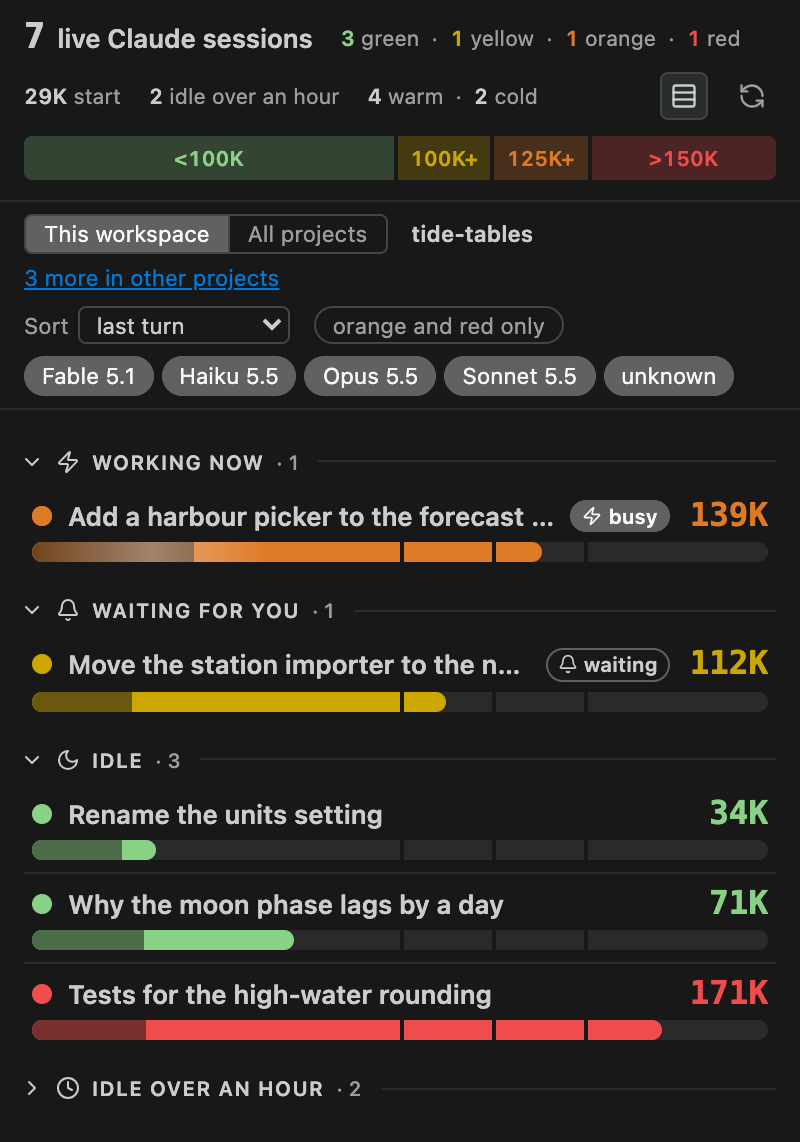
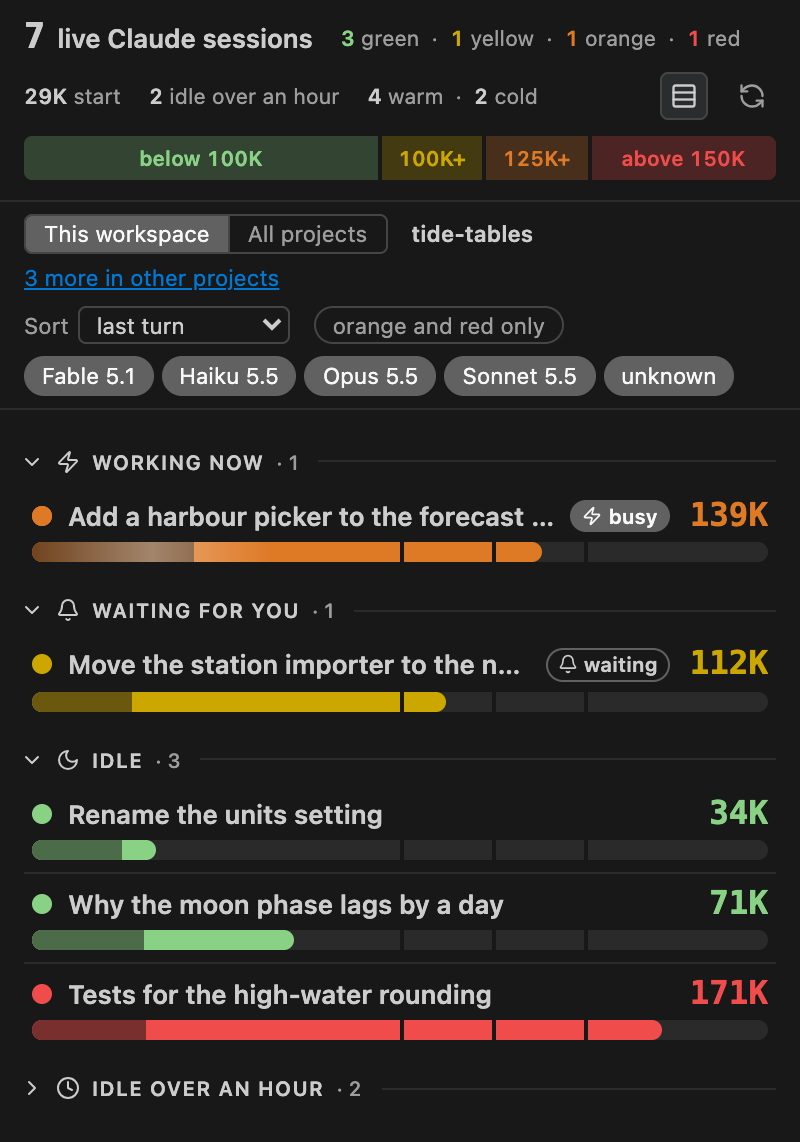
#56 The zone strip never shows a clipped label, keeps its tooltips, and takes its limits from the core
A review of #55 found three faults in the zone strip. A band's label was centred and clipped by the band, so in a
narrow sidebar "125K+" could read "25K"; the px breakpoints also ignored the editor's font size. Each band now shows
the longest range text that fits, measured on the drawn band (long, short, or none), on every list and on resize.
The bands were rebuilt on every list, every few seconds while a session works, so the tooltip with the zone's
advice vanished under the pointer; they are now built when the zones arrive and rebuilt only when they change.
And the limits lived twice, in zone() and in a hard-coded LIMITS in panel.html, so a change in the core alone
would have given a strip that contradicts the rows. The core now sends the zones with every list (ZONE_LIST: name,
bounds, long and short range text, advice, frozen), replacing zoneAdvice, and the panel takes LIMITS from them
for the strip, the rows' marks, the curves and the detail view; a list without zones keeps the last ones.

Also: ZONE_ADVICE is frozen, renderMeter and .kx-meter-leg are renamed after what they draw, and README no longer
reads as if the strip had a 0–200K axis.

Version 0.23.0.

Changed region(s): [[0.4688, 0.1226, 0.7188, 0.1839], [0.1562, 0.1226, 0.3438, 0.1532], [0.7812, 0.1226, 0.9375, 0.1532]]

diff --git a/panel.html b/panel.html
@@ -70,23 +70,22 @@
   /* The zone scale: a thick strip across the header, the row bar's 0–200K with each zone as a band at its true width
      and its range written inside, so the limits are in view before any row. Tinted, with the text in the zone colour,
      so it reads in light and dark themes. */
-  .kx-zscale { flex: 1 1 100%; container-type: inline-size; display: flex; gap: 2px; height: 22px; }
+  .kx-zscale { flex: 1 1 100%; display: flex; gap: 2px; height: 22px; }
   .kx-zband {
-    flex: var(--w) 1 0; min-width: 0; overflow: hidden; display: flex; align-items: center; justify-content: center;
+    flex: var(--w) 1 0; min-width: 0; overflow: hidden; display: flex; align-items: center; justify-content: center; padding: 0 4px;
     background: color-mix(in srgb, var(--kx-zone-fill, var(--kx-muted)) 24%, var(--kx-bg)); color: var(--kx-zone-text, var(--kx-muted));
     font-size: 0.8em; font-weight: 600; font-variant-numeric: tabular-nums; white-space: nowrap;
   }
   .kx-zband:first-child { border-radius: 4px 0 0 4px; }
   .kx-zband:last-child { border-radius: 0 4px 4px 0; }
-  /* the yellow and orange bands are 12.5 % of the strip and "100K–125K" needs about 66 px: the long ranges from
-     about 560 px, "100K+" (about 34 px) below, a smaller size under about 280 px */
-  .kx-zshort { display: none; }
-  @container (max-width: 559px) { .kx-zlong { display: none; } .kx-zshort { display: inline; } }
-  @container (max-width: 279px) { .kx-zband { font-size: 0.7em; } }
+  /* which range text the band has room for (fitBands measures it): the long one, the short one, or none; a clipped
+     label could read as another number ("125K+" cut to "25K") */
+  .kx-zband .kx-zshort, .kx-zband[data-fit="short"] .kx-zlong, .kx-zband[data-fit="none"] span { display: none; }
+  .kx-zband[data-fit="short"] .kx-zshort { display: inline; }
   /* the count per zone, beside the session count */
-  .kx-meter-leg { display: inline-flex; flex-wrap: wrap; font-size: 0.82em; font-variant-numeric: tabular-nums; color: var(--kx-muted); white-space: nowrap; }
-  .kx-meter-leg span + span::before { content: "·"; margin: 0 6px; }
-  .kx-meter-leg b { font-weight: 600; color: var(--kx-zone-text, inherit); }
+  .kx-zone-counts { display: inline-flex; flex-wrap: wrap; font-size: 0.82em; font-variant-numeric: tabular-nums; color: var(--kx-muted); white-space: nowrap; }
+  .kx-zone-counts span + span::before { content: "·"; margin: 0 6px; }
+  .kx-zone-counts b { font-weight: 600; color: var(--kx-zone-text, inherit); }
   /* the prompt-cache counters: warm and cold, beside the zone counts */
   .kx-cache-counts { font-size: 0.82em; font-variant-numeric: tabular-nums; color: var(--kx-muted); white-space: nowrap; display: inline-flex; align-items: center; }
   .kx-cache-counts b { font-weight: 600; color: var(--kx-fg); }
@@ -406,7 +405,7 @@
 <header>
   <h1><span class="kx-n" data-testid="count" aria-live="polite">0</span> live Claude sessions</h1>
   <span class="kx-showing" data-testid="showing" hidden></span>
-  <span class="kx-meter-leg" data-testid="zones"></span>
+  <span class="kx-zone-counts" data-testid="zones"></span>
   <span class="kx-start-median" data-testid="start-median" hidden><b></b> start</span>
   <span class="kx-abandoned" data-testid="abandoned-count" hidden title="A closed VS Code chat tab keeps its process running until Developer: Reload Window or VS Code quits, and the panel cannot tell a closed tab from an open one, so some of these are probably closed tabs"><b></b> idle over an hour</span>
   <span class="kx-cache-counts" data-testid="cache-counts" title="Prompt cache: how many of the listed sessions have a warm cache now, and how many went cold"><span><b data-testid="cache-warm">0</b> warm</span><span><b data-testid="cache-cold">0</b> cold</span></span>
@@ -454,7 +453,7 @@
   const errorsEl = document.querySelector('[data-testid="errors"]');
   const listEl = document.querySelector('[data-testid="list"]');
   const zoneScaleEl = document.querySelector('[data-testid="zone-scale"]');
-  const meterLegEl = document.querySelector(".kx-meter-leg");
+  const zoneCountsEl = document.querySelector(".kx-zone-counts");
   const cacheWarmEl = document.querySelector('[data-testid="cache-warm"]');
   const cacheColdEl = document.querySelector('[data-testid="cache-cold"]');
   const startMedianEl = document.querySelector('[data-testid="start-median"]');
@@ -534,14 +533,15 @@
       .map((x) => x.s);
   }
 
-  // ── The zones and the scale, as data. The core decides a session's zone (core.cjs zone()); this list
-  // orders the zones in the zone scale and its legend, names them, and picks the colour pair --kx-<zone> (text)
-  // and --kx-<zone>-fill (fills) defined in the style above. LIMITS are the boundaries drawn as dashed lines
-  // on the curve, gaps on the context bar and labels on the axis; SCALE is the full width of the bar.
-  // A new zone is one entry here, one limit there and one colour pair in the style. ─────────────────
+  // ── The zones and the scale, as data. The core decides a session's zone (core.cjs zone()) and sends the zones
+  // with every list (core.cjs ZONE_LIST): their limits, range texts and advice. This list orders the zones in the
+  // counts, names them, and picks the colour pair --kx-<zone> (text) and --kx-<zone>-fill (fills) defined in the
+  // style above. LIMITS, taken from the core's zones (applyZones), are the boundaries drawn as dashed lines on the
+  // curve, gaps on the context bar and labels on the axis; SCALE is the full width of the bar and the strip.
+  // A new zone is one entry here, one in the core and one colour pair in the style. ─────────────────
   const ZONES = ["green", "yellow", "orange", "red"];
   const ZONE_NAME = Object.fromEntries(ZONES.map((z) => [z, z]));
-  const LIMITS = [100000, 125000, 150000];
+  let LIMITS = [];
   const SCALE = 200000;
   // The prompt cache (core.cjs: cacheTtlMs, coldInMs, hitShare). The core decides warm or cold; "soon" is the
   // panel's marker for a warm cache within SOON_MS of its deadline (or half the TTL, so a 5-minute cache is
@@ -604,7 +604,7 @@
   function listText(items) {
     return items.length < 2 ? items.join("") : `${items.slice(0, -1).join(", ")} and ${items[items.length - 1]}`;
   }
-  const MARKS_TEXT = listText(LIMITS.map(tokensText));
+  const marksText = () => listText(LIMITS.map(tokensText));
   const plural = (n, one, many) => `${n} ${n === 1 ? one : many}`;
 
   /** "24 Oct 00:06": a day and a time for the facts table; "unknown" without a date. */
@@ -710,7 +710,7 @@
     });
     const title = svgEl("title", {});
     const marks = compactions.map((c) => ` · turn ${c.at + 1}: ${compactionText(c)}`).join("");
-    title.textContent = `${label} · dashed lines at ${MARKS_TEXT}${marks}${dips.length ? " · dotted marks: drops without a compaction entry" : ""}`;
+    title.textContent = `${label} · dashed lines at ${marksText()}${marks}${dips.length ? " · dotted marks: drops without a compaction entry" : ""}`;
     svg.appendChild(title);
     for (const g of LIMITS) svg.appendChild(svgEl("line", { class: "kx-limit", "data-limit": g, x1: 0, x2: CURVE_W, y1: num(y(g)), y2: num(y(g)), "vector-effect": "non-scaling-stroke" }));
     const points = series.map((v, i) => `${num(x(i))},${num(y(v))}`).join(" L");
@@ -797,7 +797,7 @@
     const known = Number.isFinite(session.tokens);
     const advice = session.advice ? ` · ${session.advice}` : ""; // the zone's advice, from the core (core.cjs contextFacts)
     const split = baselineText(session);
-    bar.title = known ? `${tokensText(session.tokens)} tokens in the context${split ? `: ${split}` : ""} · scale ${SCALE_TEXT}, marks at ${MARKS_TEXT}${advice}` : "no count yet";
+    bar.title = known ? `${tokensText(session.tokens)} tokens in the context${split ? `: ${split}` : ""} · scale ${SCALE_TEXT}, marks at ${marksText()}${advice}` : "no count yet";
     bar.setAttribute("aria-label", !known ? "no count" : session.tokens > SCALE ? `over the ${tokensText(SCALE)} scale` : `${Math.round(share(session.tokens) * 100)} % of the ${tokensText(SCALE)} scale`);
     const fill = el("span", "kx-fill" + (session.busy ? " kx-busy" : ""));
     fill.style.setProperty("--p", pct(share(session.tokens)));
@@ -1426,7 +1426,7 @@
     h.appendChild(el("span", "kx-d-zn", known ? `· ${ZONE_NAME[session.zone]} zone` : session.turns ? "· no count yet" : "· no turns yet"));
     box.appendChild(h);
     // the zones are quality warnings, not the window limit (core.cjs, the comment at YELLOW_FROM)
-    if (known) box.appendChild(el("p", "kx-d-why", `Zones warn about quality at ${MARKS_TEXT}, not about the window limit.`));
+    if (known) box.appendChild(el("p", "kx-d-why", `Zones warn about quality at ${marksText()}, not about the window limit.`));
     if (session.advice) {
       const advice = el("p", "kx-d-advice", session.advice);
       advice.dataset.testid = "detail-advice";
@@ -1599,35 +1599,46 @@
     return `${n === 1 ? "the 1 session" : `the ${n} sessions`} ${where}`;
   }
 
-  /** Where a zone runs, from LIMITS: "below 100K", "100K–125K", "above 150K"; `short` for a narrow band: "<100K", "100K+", ">150K". */
-  function zoneRange(i, short) {
-    const last = LIMITS.length;
-    if (i === 0) return short ? `<${tokensText(LIMITS[0])}` : `below ${tokensText(LIMITS[0])}`;
-    if (i >= last) return short ? `>${tokensText(LIMITS[last - 1])}` : `above ${tokensText(LIMITS[last - 1])}`;
-    return short ? `${tokensText(LIMITS[i - 1])}+` : `${tokensText(LIMITS[i - 1])}–${tokensText(LIMITS[i])}`;
+  /**
+   * The core's zones, from a list: they set LIMITS and build the header's strip, each zone a band at its true width
+   * on 0–SCALE with its range inside and its advice in the tooltip. Only when they change, so the band under the
+   * pointer keeps its tooltip while lists come in; a list without zones keeps the last ones.
+   */
+  let zonesKey = null;
+  function applyZones(zones) {
+    if (!Array.isArray(zones) || !zones.length || !zones.every((z) => z && Number.isFinite(z.from))) return;
+    const key = JSON.stringify(zones);
+    if (key === zonesKey) return;
+    zonesKey = key;
+    LIMITS = zones.slice(1).map((z) => z.from);
+    zoneScaleEl.textContent = "";
+    zoneScaleEl.setAttribute("aria-label", `Zones on a ${SCALE_TEXT} scale: ${listText(zones.map((z) => `${ZONE_NAME[z.zone] || z.zone} ${z.range}`))}`);
+    for (const z of zones) {
+      const band = zoned(el("span", "kx-zband"), z.zone);
+      band.dataset.testid = `band-${z.zone}`;
+      band.style.setProperty("--w", pct(((Number.isFinite(z.to) ? z.to : SCALE) - z.from) / SCALE));
+      band.title = `${ZONE_NAME[z.zone] || z.zone} zone: ${z.range}${z.advice ? ` · ${z.advice}` : ""}`;
+      band.appendChild(el("span", "kx-zlong", z.range));
+      band.appendChild(el("span", "kx-zshort", z.short));
+      zoneScaleEl.appendChild(band);
+    }
   }
 
-  /**
-   * The header's zone scale, the bands from 0 to SCALE split at LIMITS with each zone's range inside (the same
-   * on every list, but drawn from ZONES and LIMITS, so a new limit moves it), and the count per zone beside the
-   * session count. A band's tooltip says what applies there (the core's zoneAdvice).
-   */
-  function renderMeter(zoneCounts, data) {
+  /** Per band, the longest range text that fits, measured as drawn, so the editor's font size counts: long, short, or none. */
+  function fitBands() {
+    for (const band of zoneScaleEl.children) {
+      for (const fit of ["long", "short", "none"]) {
+        band.dataset.fit = fit;
+        if (fit === "none" || band.scrollWidth <= band.clientWidth) break;
+      }
+    }
+  }
+  if (typeof ResizeObserver === "function") new ResizeObserver(fitBands).observe(zoneScaleEl);
+
+  /** The count per zone beside the session count, for the listed sessions (the scope, before the view's filters). */
+  function renderZoneCounts(zoneCounts, data) {
     const counts = ZONES.map((z) => [z, Number.isFinite(zoneCounts[z]) ? zoneCounts[z] : 0]);
-    const advice = data.zoneAdvice || {};
-    zoneScaleEl.textContent = "";
-    meterLegEl.textContent = "";
-    zoneScaleEl.setAttribute("aria-label", `Zones on a ${SCALE_TEXT} scale: ${listText(ZONES.map((z, i) => `${ZONE_NAME[z]} ${zoneRange(i)}`))}`);
-    const edges = [0, ...LIMITS, SCALE];
-    ZONES.forEach((z, i) => {
-      const band = zoned(el("span", "kx-zband"), z);
-      band.dataset.testid = `band-${z}`;
-      band.style.setProperty("--w", pct((edges[i + 1] - edges[i]) / SCALE));
-      band.title = `${ZONE_NAME[z]} zone: ${zoneRange(i)}${advice[z] ? ` · ${advice[z]}` : ""}`;
-      band.appendChild(el("span", "kx-zlong", zoneRange(i)));
-      band.appendChild(el("span", "kx-zshort", zoneRange(i, true)));
-      zoneScaleEl.appendChild(band);
-    });
+    zoneCountsEl.textContent = "";
     for (const [z, n] of counts) {
       const item = zoned(el("span"), z);
       const b = el("b", "", String(n));
@@ -1635,7 +1646,7 @@
       item.appendChild(b);
       item.appendChild(document.createTextNode(` ${ZONE_NAME[z]}`));
       item.title = `${n} of ${sessionsWhere(data.count || 0, data)} ${n === 1 ? "is" : "are"} in the ${ZONE_NAME[z]} zone`;
-      meterLegEl.appendChild(item);
+      zoneCountsEl.appendChild(item);
     }
   }
 
@@ -1660,11 +1671,13 @@
 
   function render(data) {
     lastData = data;
+    applyZones(data.zones); // first: the rows, the curves and the detail view draw the limits
     refreshDone(data);
     drawDetail();
     requestDetail(); // the new list's turns, all of them, for the open session
     countEl.textContent = String(data.count || 0);
-    renderMeter(data.zoneCounts || {}, data);
+    renderZoneCounts(data.zoneCounts || {}, data);
+    fitBands(); // also here: a list can come with a new font size or before the first resize
     renderScope(data);
     cacheCountsEl.title = `Prompt cache: how many of ${sessionsWhere(data.count || 0, data)} have a warm cache now, and how many went cold`;
     const cacheCounts = data.cacheCounts || {};

diff --git a/test/panel.test.js b/test/panel.test.js
@@ -225,6 +225,46 @@ describe("panel: the zone scale", () => {
     p.send(list([mine, other], { workspaceFolders: [MINE], all: true }));
     expect(["green", "orange"].map((z) => p.$(`zone-${z}`).textContent)).toEqual(["1", "1"]);
   });
+
+  it("takes the limits from the core's zones: other limits move the bands and the rows' marks", () => {
+    const p = panel();
+    const ticks = () => [...p.row("a").querySelectorAll(".kx-tick")].map((t) => t.style.getPropertyValue("--t"));
+    p.send(list([session("a")]));
+    expect(ticks()).toEqual(["50", "62.5", "75"]);
+    const built = list([session("a")]);
+    const bounds = [[0, 80000], [80000, 120000], [120000, 160000], [160000, null]];
+    p.send({ ...built, zones: built.zones.map((z, i) => ({ ...z, from: bounds[i][0], to: bounds[i][1] })) });
+    expect(["green", "yellow", "orange", "red"].map((z) => p.$(`band-${z}`).style.getPropertyValue("--w"))).toEqual(["40", "20", "20", "20"]);
+    expect(ticks()).toEqual(["40", "60", "80"]);
+  });
+
+  it("builds the bands once for the same zones, so a band's tooltip survives the next list; a list without zones keeps them", () => {
+    const p = panel();
+    p.send(list([session("a")]));
+    const band = p.$("band-yellow");
+    p.send(list([session("a", { tokens: 120000 })]));
+    expect(p.$("band-yellow")).toBe(band);
+    p.send({ ...list([session("a")]), zones: undefined });
+    expect(p.$("band-yellow")).toBe(band);
+    expect(p.row("a").querySelectorAll(".kx-tick")).toHaveLength(3);
+  });
+
+  it("shows a band's long range when it fits, else the short one, else none, never a clipped label", () => {
+    const p = panel();
+    p.send(list([session("a")]));
+    // jsdom has no layout: each band is given a width, and its content the width of the text it shows
+    const widths = { green: [160, 80, 40], yellow: [20, 68, 34], orange: [20, 68, 24] };
+    for (const [z, [client, long, short]] of Object.entries(widths)) {
+      const band = p.$(`band-${z}`);
+      Object.defineProperty(band, "clientWidth", { value: client, configurable: true });
+      Object.defineProperty(band, "scrollWidth", { get: () => ({ long, short, none: 0 })[band.dataset.fit] });
+    }
+    p.send(list([session("a")]));
+    expect(["green", "yellow", "orange"].map((z) => p.$(`band-${z}`).dataset.fit)).toEqual(["long", "none", "none"]);
+    Object.defineProperty(p.$("band-yellow"), "clientWidth", { value: 40 });
+    p.send(list([session("a")]));
+    expect(p.$("band-yellow").dataset.fit).toBe("short");
+  });
 });
 
 describe("panel: the scope", () => {

diff --git a/test/core.test.js b/test/core.test.js
@@ -601,10 +601,17 @@ describe("buildSessions", () => {
     expect(K.buildSessions({ registry, transcripts, now: NOW, workspaceFolders: ["c:\\Develop\\elsewhere"], all: false })).toMatchObject({ count: 0, hiddenCount: 5, workspaceNames: ["elsewhere"] });
   });
 
-  it("zoneAdvice carries the advice for every zone but green, the same the sessions get, also for an empty list", () => {
-    const { zoneAdvice } = K.buildSessions({ registry: [], now: NOW });
-    expect(Object.keys(zoneAdvice)).toEqual(["yellow", "orange", "red"]);
-    expect(zoneAdvice.orange).toBe(K.contextFacts({ zone: "orange" }).advice);
+  it("zones lists the zones in order with the limits zone() uses, their range texts and advice, frozen, also for an empty list", () => {
+    const { zones } = K.buildSessions({ registry: [], now: NOW });
+    expect(zones.map(({ zone, from, to, range, short }) => [zone, from, to, range, short])).toEqual([
+      ["green", 0, 100000, "below 100K", "<100K"], ["yellow", 100000, 125000, "100K–125K", "100K+"],
+      ["orange", 125000, 150000, "125K–150K", "125K+"], ["red", 150000, null, "above 150K", ">150K"],
+    ]);
+    // just inside each end: orange includes 150K itself, so red starts above its `from`
+    for (const z of zones) expect([K.zone(z.from + 1), K.zone(z.to === null ? 1e7 : z.to - 1)]).toEqual([z.zone, z.zone]);
+    expect(zones[0].advice).toBeNull();
+    expect(zones[2].advice).toBe(K.contextFacts({ zone: "orange" }).advice);
+    expect(Object.isFrozen(zones) && zones.every(Object.isFrozen)).toBe(true);
   });
 
   it("per session: zone, short model name, time since the last turn, dimming after one hour and busy", () => {

diff --git a/README.md b/README.md
@@ -174,9 +174,10 @@ At the right end, the compact switch and the refresh button: refresh reads the r
 again from the first byte, and says "updated 12:04:31" when done. Click it when you doubt what the list shows,
 for example right after a process was ended.
 
-Across the bottom of the header, the zone scale: a strip with the row bar's 0–200K, each zone a band at its true
-width with its range written inside ("below 100K", "100K–125K" …; "<100K", "100K+" … when the panel is narrow),
-so the limits are in view before any row. Point at a band for what to do at the next phase boundary in that zone.
+Across the bottom of the header, the zone scale: a strip as wide as the header that stands for 0–200K, the same
+scale as the row bars, each zone a band at its true width with its range written inside ("below 100K",
+"100K–125K" …; "<100K", "100K+" … when a band is too narrow, and no text when even that does not fit), so the
+limits are in view before any row. Point at a band for what to do at the next phase boundary in that zone.
 
 ### Groups
 
